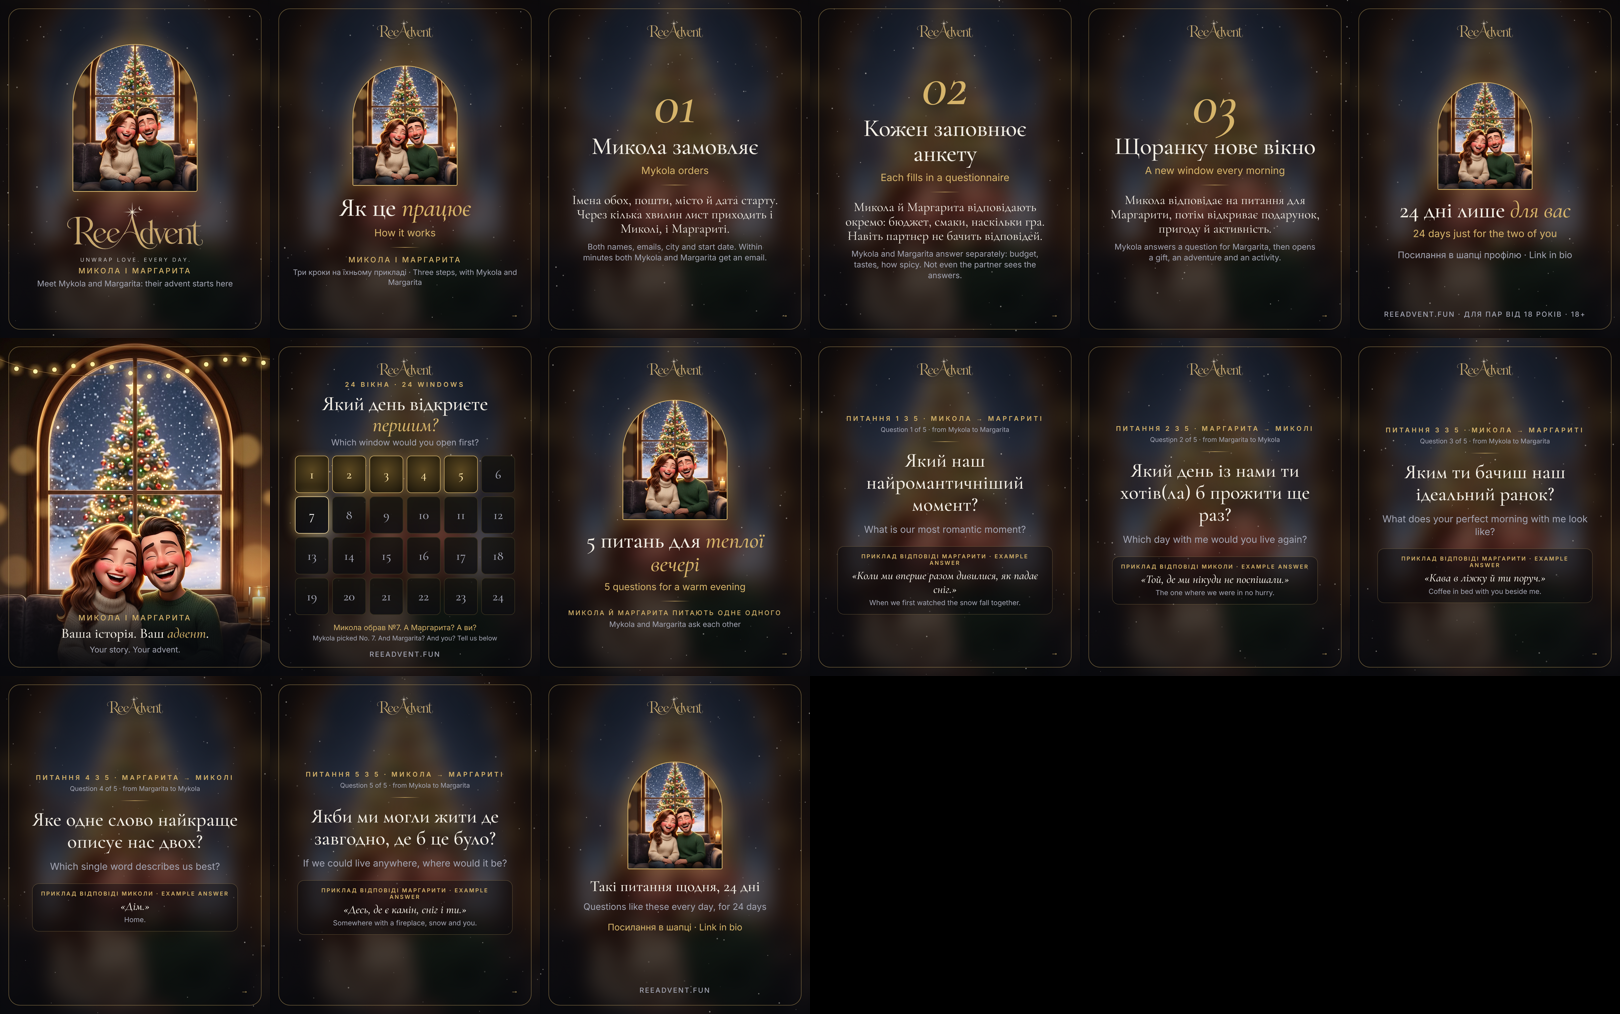
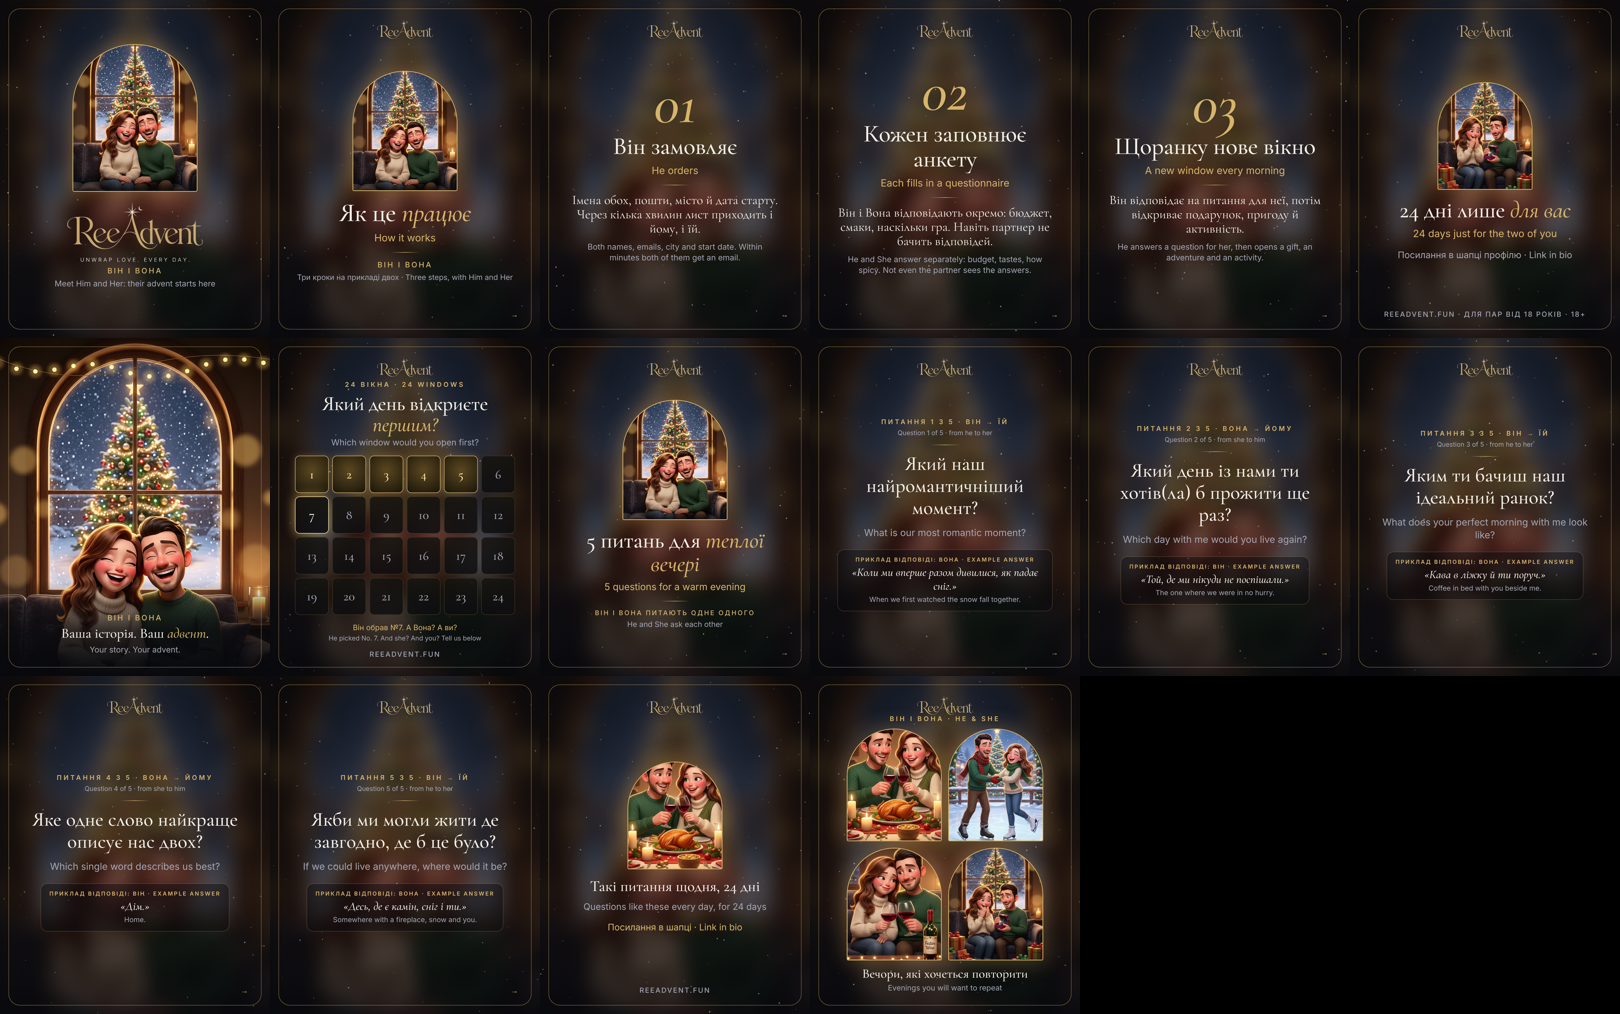
Instagram і сайт: Він і Вона замість імен, повільніший Reel з музикою, нові сцени
Claude-Session: https://claude.ai/code/session_01Hc5kPjg9E2Dj73R5Ltgi6b

diff --git a/public/assets/lang.js b/public/assets/lang.js
@@ -39,8 +39,8 @@
     d_gift: 'Gift', d_adv: 'Adventure for two', d_act: 'Shared activity', d_open: 'tap to open'
   };
   const DEMO = {
-    uk: [['Питання дня', 'Питання дня · від Миколи для Маргарити', 'За що ти мене любиш?', '<span class="ans"><b>Маргарита відповіла:</b> «За те, що поруч із тобою тихо й тепло, навіть коли за вікном завірюха.»</span><span class="ans"><b>Микола відповів:</b> «За твій сміх, який чути з іншої кімнати.»</span>', 'приклад відповідей для двох'], ['Подарунок', 'Подарунок для: Маргарити', 'Набір для чаювання з медом', 'Микола обирає ситечко, баночку меду й пару пакетиків чаю: готовий затишний вечір.', '≈ 200 ₴'], ['Пригода для двох', 'Пригода для Миколи і Маргарити', 'Вечір при свічках', 'Тільки світло свічок і ніяких телефонів — на три години.', 'Романтика'], ['Спільна активність', 'Спільна активність Миколи і Маргарити', 'Нова кав’ярня', 'Оберіть ту, де ще не були, і замовте щось незвичне.', 'до ~300 ₴']],
-    en: [['Question of the day', 'Question of the day · from Mykola to Margarita', 'Why do you love me?', '<span class="ans"><b>Margarita answered:</b> “Because it is quiet and warm next to you, even when there is a blizzard outside.”</span><span class="ans"><b>Mykola answered:</b> “For your laugh that I can hear from another room.”</span>', 'an example of answers for two'], ['Gift', 'Gift for: Margarita', 'Tea set with honey', 'Mykola picks a strainer, a jar of honey and a few tea bags: a cosy evening in a box.', '≈ $5'], ['Adventure for two', 'Adventure for Mykola and Margarita', 'An evening by candlelight', 'Only candlelight and no phones, for three hours.', 'Romance'], ['Shared activity', 'Shared activity for Mykola and Margarita', 'A new café', 'Choose one you have not been to and order something unusual.', 'up to ~$8']]
+    uk: [['Питання дня', 'Питання дня · від нього для неї', 'За що ти мене любиш?', '<span class="ans"><b>Вона відповіла:</b> «За те, що поруч із тобою тихо й тепло, навіть коли за вікном завірюха.»</span><span class="ans"><b>Він відповів:</b> «За твій сміх, який чути з іншої кімнати.»</span>', 'приклад відповідей для двох'], ['Подарунок', 'Подарунок для неї', 'Набір для чаювання з медом', 'Він обирає ситечко, баночку меду й пару пакетиків чаю: готовий затишний вечір.', '≈ 200 ₴'], ['Пригода для двох', 'Пригода для нього і для неї', 'Вечір при свічках', 'Тільки світло свічок і ніяких телефонів — на три години.', 'Романтика'], ['Спільна активність', 'Спільна активність для двох', 'Нова кав’ярня', 'Оберіть ту, де ще не були, і замовте щось незвичне.', 'до ~300 ₴']],
+    en: [['Question of the day', 'Question of the day · from him to her', 'Why do you love me?', '<span class="ans"><b>She answered:</b> “Because it is quiet and warm next to you, even when there is a blizzard outside.”</span><span class="ans"><b>He answered:</b> “For your laugh that I can hear from another room.”</span>', 'an example of answers for two'], ['Gift', 'Gift for her', 'Tea set with honey', 'He picks a strainer, a jar of honey and a few tea bags: a cosy evening in a box.', '≈ $5'], ['Adventure for two', 'Adventure for him and her', 'An evening by candlelight', 'Only candlelight and no phones, for three hours.', 'Romance'], ['Shared activity', 'Shared activity for two', 'A new café', 'Choose one you have not been to and order something unusual.', 'up to ~$8']]
   };
   const stored = () => { try { const s = localStorage.getItem('lang'); return s === 'uk' || s === 'en' ? s : null; } catch { return null; } };
   const q = new URLSearchParams(location.search).get('lang');

diff --git a/public/index.html b/public/index.html
@@ -113,7 +113,7 @@
   <footer><div>© ReeAdvent · ФОП Радченко М. А.</div><div style="margin-top:8px"><span data-i18n="ft_support">Підтримка</span>: <a href="mailto:support@reeadvent.fun">support@reeadvent.fun</a> · +38 099 562 66 87</div><div style="margin-top:8px"><a class="ig-link" href="https://www.instagram.com/reeadvent/" target="_blank" rel="noopener noreferrer" aria-label="Instagram @reeadvent"><svg class="ig-ico" viewBox="0 0 24 24" aria-hidden="true"><rect x="3" y="3" width="18" height="18" rx="5" fill="none" stroke="currentColor" stroke-width="1.7"/><circle cx="12" cy="12" r="4.2" fill="none" stroke="currentColor" stroke-width="1.7"/><circle cx="17.2" cy="6.8" r="1.1" fill="currentColor"/></svg> <span>@reeadvent</span></a></div><div style="margin-top:8px" class="muted" data-i18n="ft_fx">Курси валют (довідково): <a href="https://www.exchangerate-api.com" target="_blank" rel="noopener">ExchangeRate-API</a></div><div style="margin-top:8px"><a href="/legal/offer.html" data-legal="offer" data-i18n="ft_offer">Публічна оферта</a><a href="/legal/privacy.html" data-legal="privacy" data-i18n="ft_privacy">Політика конфіденційності</a></div></footer>
 </main>
 <div id="toast" role="status"></div>
-<script src="/assets/lang.js?v=5"></script>
+<script src="/assets/lang.js?v=6"></script>
 <script src="/assets/countries.js"></script>
 <script src="/assets/fx.js?v=2"></script>
 <script src="/assets/landing.js?v=9"></script>

diff --git a/marketing/instagram/music.py b/marketing/instagram/music.py
@@ -1,0 +1,26 @@
+# Власна коротка музична тема для Reel (синтез, без сторонніх прав): ніжна музична скринька + м'які акорди, ~21 с. Використання: python3 music.py out.wav 21
+import sys, numpy as np, wave
+dur = float(sys.argv[2]) if len(sys.argv) > 2 else 21; sr = 44100; n = int(dur * sr); t = np.arange(n) / sr
+mix = np.zeros(n)
+def note(f, start, length, amp, kind='bell'):
+    i0 = int(start * sr); m = min(int(length * sr), n - i0)
+    if m <= 0: return
+    tt = np.arange(m) / sr
+    if kind == 'bell': w = np.sin(2*np.pi*f*tt) + .35*np.sin(2*np.pi*2*f*tt)*np.exp(-tt*5) + .12*np.sin(2*np.pi*3.01*f*tt)*np.exp(-tt*9); env = np.exp(-tt*2.6)*np.minimum(1, tt*400)
+    else: w = np.sin(2*np.pi*f*tt) + .4*np.sin(2*np.pi*2*f*tt) + .2*np.sin(2*np.pi*f*1.003*tt); env = np.minimum(1, tt/1.2)*np.minimum(1, (length - tt)/1.5).clip(0, 1)
+    mix[i0:i0+m] += amp * w * env
+fr = lambda midi: 440 * 2 ** ((midi - 69) / 12)
+bar = 60 / 76 * 4   # 76 BPM, такт 4 долі
+chords = [(48, [60, 64, 67]), (45, [57, 60, 64]), (41, [57, 60, 65]), (43, [59, 62, 67])]   # C Am F G
+for b in range(int(dur / bar) + 1):
+    root, ch = chords[b % 4]; st = b * bar
+    note(fr(root - 12), st, bar + .8, .16, 'pad')
+    for c in ch: note(fr(c - 12), st, bar + .8, .07, 'pad')
+    arp = [ch[0], ch[1], ch[2], ch[1] + 12, ch[2], ch[1], ch[0] + 12, ch[2]]
+    for k, m in enumerate(arp): note(fr(m + 12), st + k * bar / 8, 1.6, .11)
+    if b % 2 == 1: note(fr(ch[2] + 24), st + bar * .5, 2.2, .07)
+mix /= max(1e-9, np.abs(mix).max()); mix *= .8
+mix *= np.minimum(1, t / 1.2) * np.minimum(1, (dur - t) / 2.5).clip(0, 1)
+d = int(.28 * sr); echo = mix.copy(); echo[d:] += .3 * mix[:-d]; mix = echo / np.abs(echo).max() * .8
+st = np.stack([mix, np.roll(mix, int(.012 * sr))], 1)
+w = wave.open(sys.argv[1], 'wb'); w.setnchannels(2); w.setsampwidth(2); w.setframerate(sr); w.writeframes((st * 32767).astype('<i2').tobytes()); w.close()

diff --git a/marketing/instagram/captions.md b/marketing/instagram/captions.md
@@ -1,6 +1,6 @@
 # Перші 6 публікацій @reeadvent
 
-Усі візуали в єдиному стилі (тепле тло з ілюстрації пари, золота рамка, логотип угорі, арка-вікно) і двомовні: українська основна, англійська підписом. Героїня й герой серії: **Микола і Маргарита** (вигадані персонажі, відповіді в прикладах позначені як приклади, не відгуки). У підписах спершу українська, потім англійська. Файли лежать у `out/`.
+Усі візуали в єдиному стилі (тепле тло з ілюстрації пари, золота рамка, логотип угорі, арка-вікно) і двомовні: українська основна, англійська підписом. Герої серії: **Він і Вона** / He & She (вигадані персонажі, відповіді в прикладах позначені як приклади, не відгуки). У підписах спершу українська, потім англійська. Файли лежать у `out/`.
 
 **Порядок публікації (по одній на день або через день, 18:00–20:00 за Києвом):**
 1. `01-brand-post.png` — знайомство з брендом
@@ -17,7 +17,7 @@
 ## 1. Брендовий пост (`01-brand-post.png`)
 
 **Підпис (UA):**
-Знайомтеся: Микола і Маргарита. Вони відкривають свій адвент-календар для двох.
+Знайомтеся: Він і Вона. Вони відкривають свій адвент-календар для двох.
 
 24 дні. Щодня нове вікно: питання одне одному, подарунок, пригода й спільна активність у вашому місті. Підбираємо за вашими смаками, а те, що всередині, лишається сюрпризом.
 
@@ -26,7 +26,7 @@ Unwrap Love. Every Day. ✦
 Посилання в шапці профілю.
 
 **Caption (EN):**
-Meet Mykola and Margarita. They are opening their advent calendar for two.
+Meet Him and Her. They are opening their advent calendar for two.
 
 24 days. A new window every day: a question for each other, a gift idea, an adventure and a shared activity in your city. Matched to your tastes, but what is inside stays a surprise.
 
@@ -38,14 +38,14 @@ Link in bio.
 
 ---
 
-## 2. Reel (`02-reel.mp4`, 12 с, без звуку)
+## 2. Reel (`02-reel.mp4`, ~21 с, з музикою)
 
-**Звук:** додайте у застосунку Instagram спокійну інструментальну композицію з бібліотеки (піаніно, різдвяна лірика). Беріть лише аудіо, дозволене для комерційних акаунтів (позначка в бібліотеці Instagram).
+**Звук:** у відео вже вбудована власна музична тема (музична скринька, синтезована нами, без сторонніх прав; окремо `02-reel-music.wav`). За бажання можна замінити її в Instagram аудіо з бібліотеки, дозволеним для комерційних акаунтів.
 
 **Підпис (UA):**
 Ось як відкривається одне вікно ✦
 Питання дня. Подарунок. Пригода для двох. Спільна активність.
-Усе це щодня, 24 дні. Вікно №7 Миколи для Маргарити вже відкрите, а ваше чекає.
+Усе це щодня, 24 дні. Вікно №7 для неї вже відкрите, а ваше чекає.
 
 Посилання в шапці профілю.
 
@@ -64,8 +64,8 @@ Every day for 24 days.
 
 **Підпис (UA):**
 Три кроки до 24 днів сюрпризів ✦
-1) Микола замовляє (ви замовляєте): імена, пошти, місто, дата старту.
-2) Микола й Маргарита заповнюють анкету окремо (і ви також). Навіть партнер не бачить ваших відповідей.
+1) Він замовляє (а ви): імена, пошти, місто, дата старту.
+2) Він і Вона заповнюють анкету окремо (як і ви). Навіть партнер не бачить ваших відповідей.
 3) Щоранку відкривається нове вікно: питання, подарунок, пригода й активність.
 
 Для пар від 18 років. Частина змісту м'яко романтична й завжди за взаємною згодою.
@@ -73,8 +73,8 @@ Every day for 24 days.
 
 **Caption (EN):**
 Three steps to 24 days of surprises ✦
-1) Mykola orders (and you do): names, emails, city and start date.
-2) Mykola and Margarita fill in a questionnaire separately, and so do you. Not even your partner sees your answers.
+1) He orders (and so do you): names, emails, city and start date.
+2) He and She fill in a questionnaire separately, and so do you. Not even your partner sees your answers.
 3) A new window opens every morning.
 
 For couples aged 18+. Some of the content is softly romantic and always by mutual consent.
@@ -88,7 +88,7 @@ Link in bio.
 
 ## 4. Ілюстрація пари (`04-couple-illustration.png`)
 
-Це ілюстрація Миколи і Маргарити (Adobe Firefly, `assets/couple-art.png`), не фото реальних людей. Усі інші публікації використовують її як тло й арку.
+Це ілюстрація Його і Її (Adobe Firefly, `assets/couple-art.png`), не фото реальних людей. Усі інші публікації використовують її як тло й арку.
 
 **Підпис (UA):**
 Ваша історія. Ваш адвент ✦
@@ -119,7 +119,7 @@ Tell us in the comments: what was your warmest winter evening?
 
 **Підпис (UA):**
 24 вікна. 24 дні. Який день відкриєте першим? ✦
-Микола обрав №7. А Маргарита? Напишіть цифру в коментарях, а ми розповімо, що за вікном приготуємо для вас (без спойлерів!).
+Він обрав №7. А Вона? Напишіть цифру в коментарях, а ми розповімо, що за вікном приготуємо для вас (без спойлерів!).
 
 **Caption (EN):**
 24 windows. 24 days. Which one would you open first? ✦
@@ -137,7 +137,7 @@ Tell us the number below, and we will give you a hint of what lives behind it (n
 
 **Підпис (UA):**
 5 питань, від яких вечеря стане теплішою ✦
-Микола й Маргарита задають їх одне одному (відповіді на слайдах: приклади). Задайте їх одне одному сьогодні. А в ReeAdvent таке питання відкривається щодня.
+Він і Вона задають їх одне одному (відповіді на слайдах: приклади). Задайте їх одне одному сьогодні. А в ReeAdvent таке питання відкривається щодня.
 
 Збережіть допис, щоб не загубити, і поділіться з тим, кому хочеться їх поставити.
 
@@ -160,3 +160,15 @@ Save this post so you do not lose it, and send it to the person you want to ask.
 - Відповідайте на коментарі в першу годину.
 - Посилання на сайт додайте в Bio, не в підпис (у підписі воно не клікабельне).
 - У Stories діліться допису кнопкою «Поділитися» й додайте стікер-посилання на reeadvent.fun.
+
+---
+
+## 7. Бонус: «Вечори, які хочеться повторити» (`07-bonus-evenings.png`)
+
+**Підпис (UA):** Вечеря при свічках, ковзанка, плед і вино, сюрприз під ялинкою. Який вечір ваш? ✦
+
+**Caption (EN):** Candlelit dinner, ice rink, a blanket and wine, a surprise under the tree. Which evening is yours? ✦
+
+**Хештеги:** #вечірдлядвох #романтика #адвент #reeadvent #datenight
+
+**Alt-текст:** Чотири мультфільмові сцени пари: вечеря зі свічками, ковзанка, диван із вином, ялинка й подарунки.
